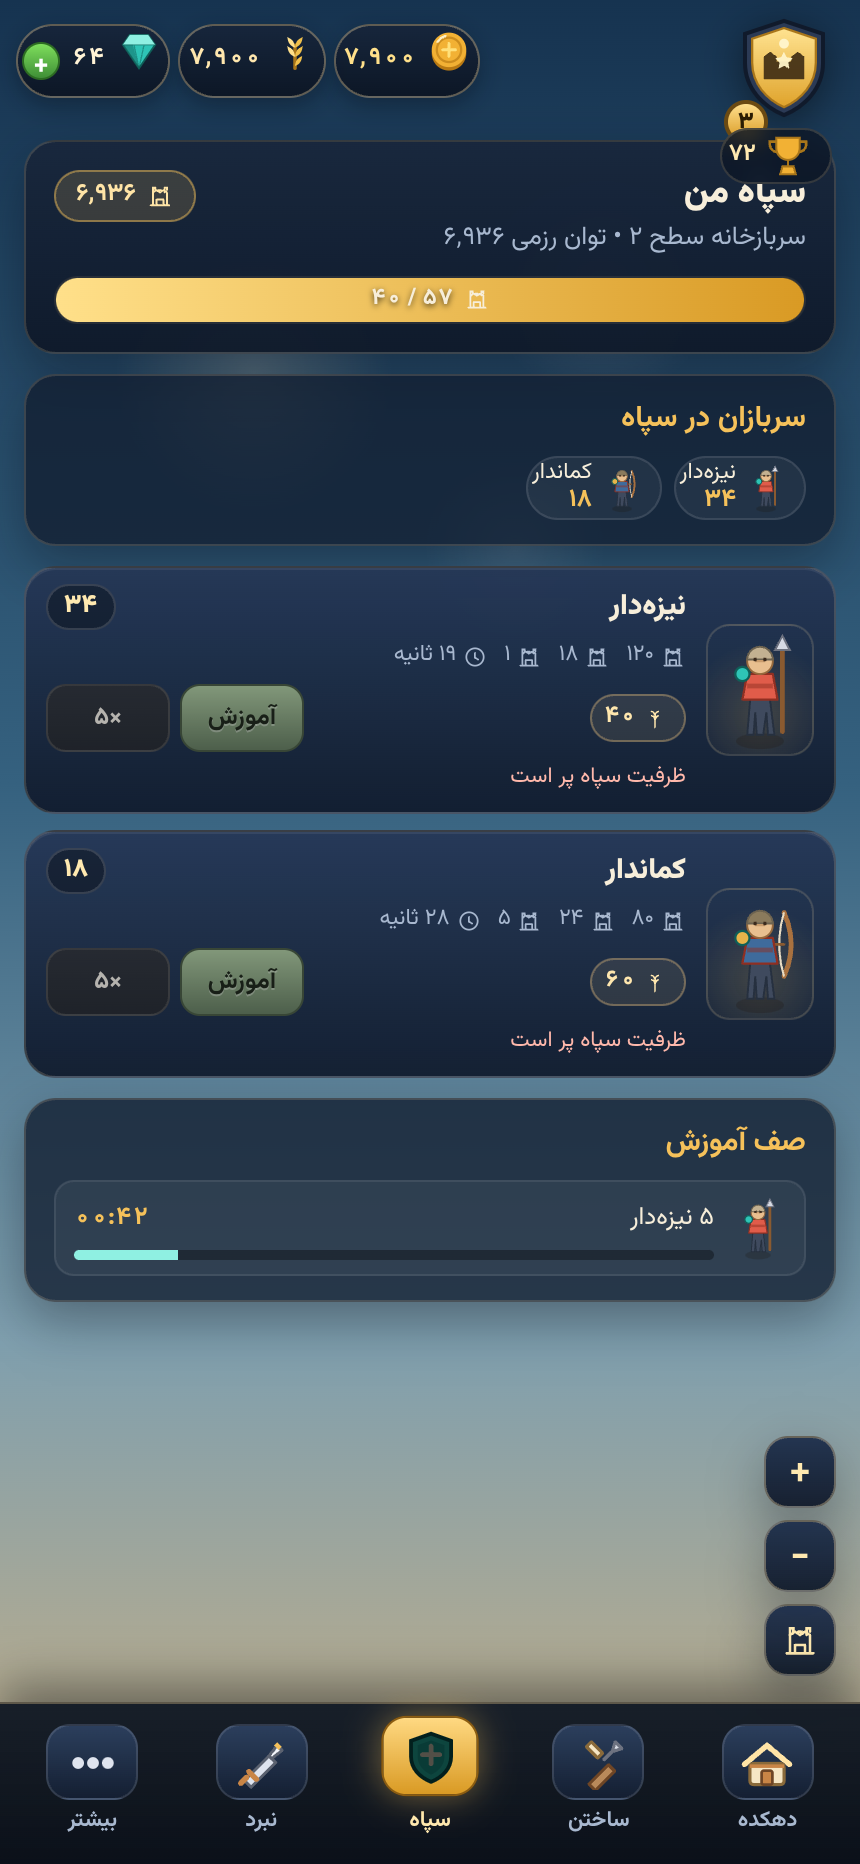
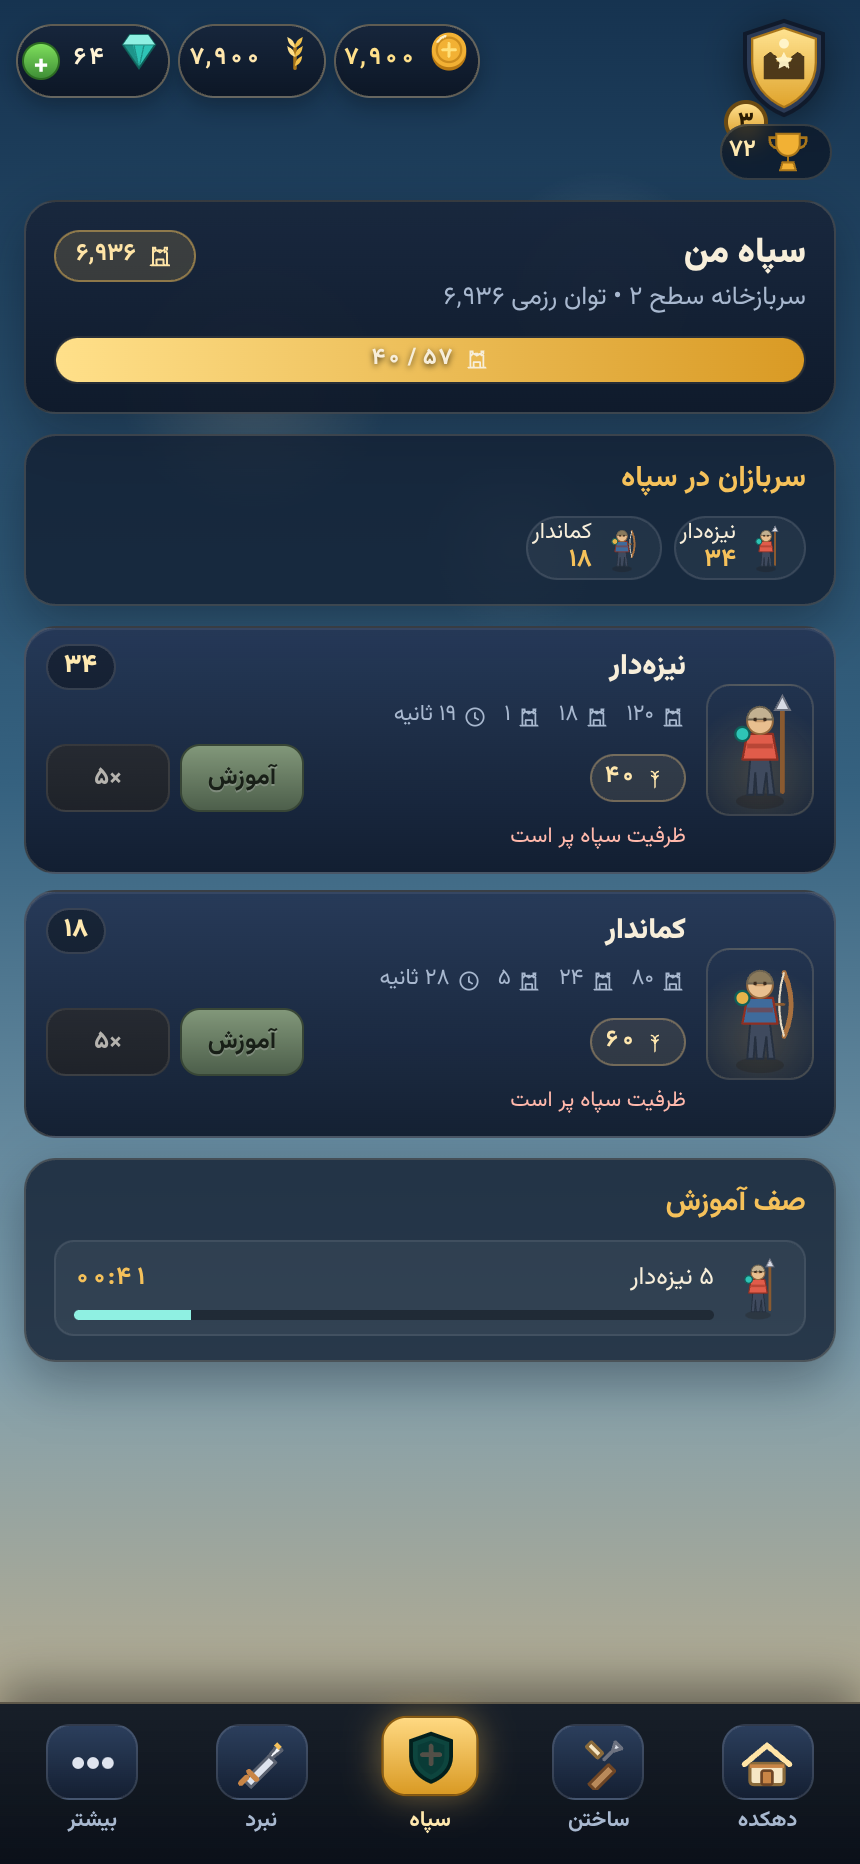
wave 11 (polish): لبههای ناهموار، نوار زوم فقط در دهکده، فاصلهی بالای برگهها در موبایل

Changed region(s): [[0.0302, 0.0622, 0.9977, 0.9024], [0.6047, 0.3423, 0.6349, 0.4045]]

diff --git a/src/ui/shell.js b/src/ui/shell.js
@@ -70,11 +70,15 @@ export function renderShell({ active = 'village', state, camera, content = '' } 
       </div>
     </header>
 
-    <div class="zoom-bar" aria-label="بزرگنمایی">
+    ${
+      active === 'village'
+        ? `<div class="zoom-bar" aria-label="بزرگنمایی">
       <button class="zoom" data-action="zoom-in" aria-label="بزرگتر">+</button>
       <button class="zoom" data-action="zoom-out" aria-label="کوچکتر">−</button>
       <button class="zoom zoom--home" data-action="camera-reset" aria-label="نمای کامل دهکده">${icon('village', { size: 20 })}</button>
-    </div>
+    </div>`
+        : ''
+    }
 
     <main class="views" id="screen" tabindex="-1">${content}</main>
 

diff --git a/styles/main.css b/styles/main.css
@@ -1747,7 +1747,13 @@ svg.scene text {
   }
 
   .hud__trophy {
-    inset-block-start: 64px;
+    inset-block-start: 62px;
+  }
+
+  .page,
+  .page--army,
+  .page--battle {
+    padding-top: calc(env(safe-area-inset-top, 0px) + 100px);
   }
 
   .dock__inner {

diff --git a/docs/CHANGELOG.md b/docs/CHANGELOG.md
@@ -166,5 +166,6 @@
   - **فونت فارسی وزیرمتن** با چهار وزن بهصورت محلی (بدون CDN) و انیمیشنهای نرم پرچم/شعله/دود/آب با احترام به `prefers-reduced-motion`.
   - صفحهی «ساختن» مستقل، صفحهی «بیشتر» با آمار و تنظیمات، و صفحهی بازی با اندازههای لمسی.
 - **فایلهای کلیدی:** `src/ui/art/geo.js`، `src/ui/art/sprites.js`، `src/ui/art/scene.js`، `src/ui/art/camera.js`، `src/ui/art/figures.js`، `src/ui/art/icons.js`، `src/ui/shell.js`، `src/ui/sheet.js`، `src/ui/screens/{village,army,battle,build,more}.js`، `styles/main.css`، `assets/fonts/`، `tools/art-preview.html`، `tests/art.test.js`
+  - **صیقل پس از بازبینی:** لبههای ناهموار (رسم دستساز) روی حجمهای ساختمانها، نوار زوم فقط در صفحهی دهکده (پیشتر روی برگههای سپاه و نبرد شناور میماند و روی مبلغ غنیمت و نام حریف میافتاد)، و فاصلهی بالای برگهها روی موبایل تا عنوان صفحه زیر نشان جام پنهان نشود.
 - **تستها:** `npm test` — ۱۱۰ تست سبز (اقتصاد، دهکده، ارتش، نبرد، ذخیرهسازی، رابط و اکنون گرافیک/دوربین).
 - **یادداشت:** همهی گرافیک با SVG تولید میشود؛ هیچ تصویر یا فونت از شبکه بارگذاری نمیشود و حجم کل صفحه سبک میماند. نمایش سیاهقلممانند قبلی (مربعهای تیره و ایموجی) کامل حذف شد.
